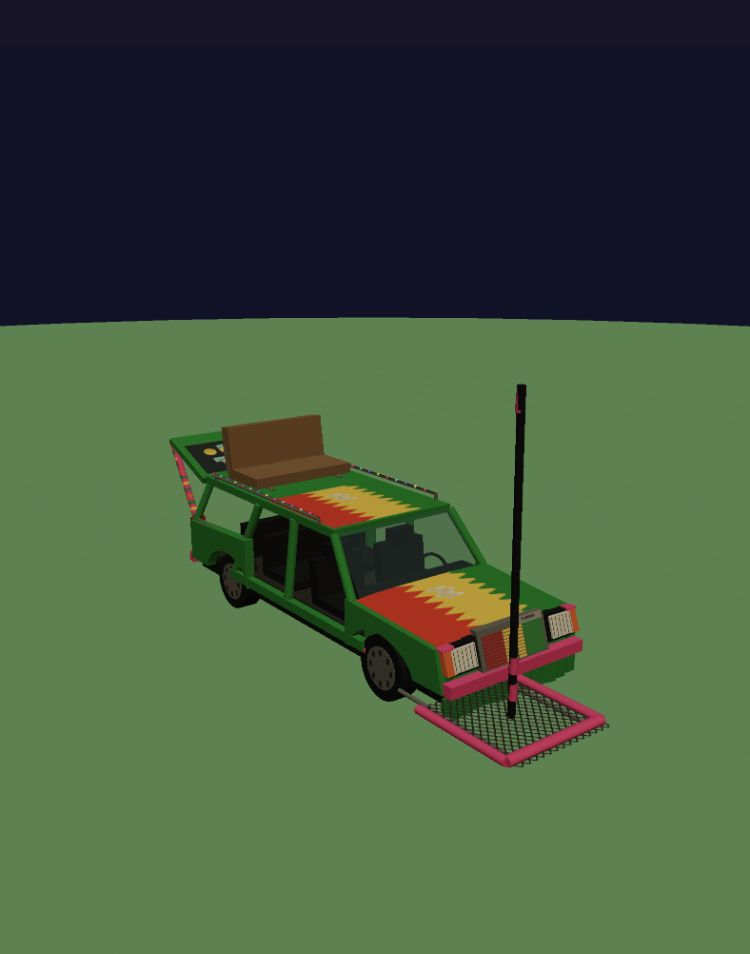
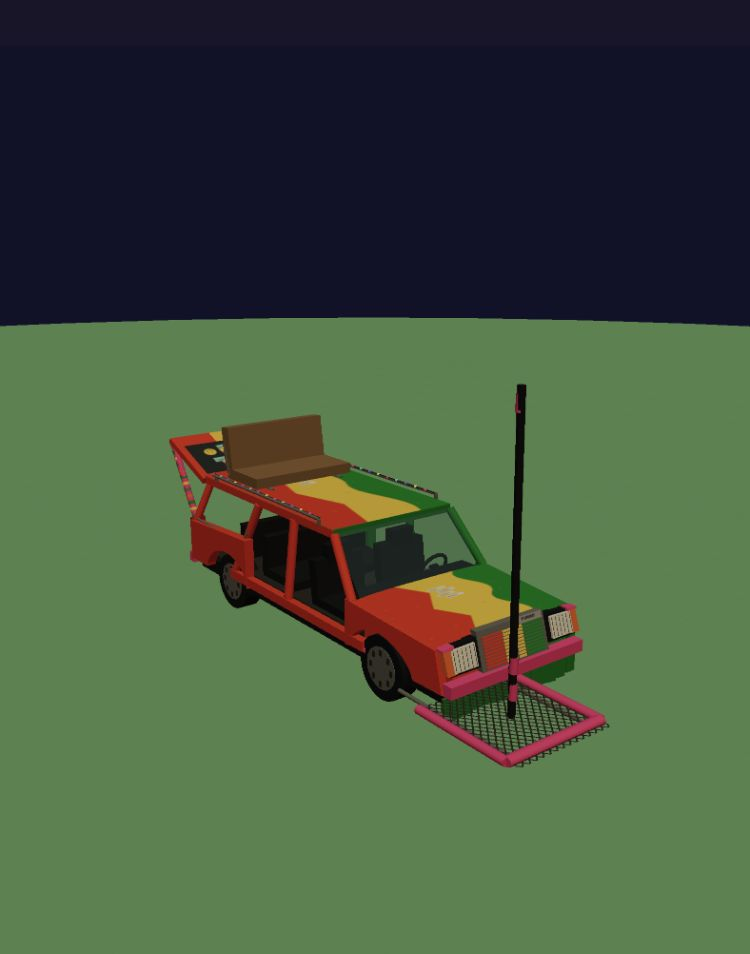
Match Nut Wagon paint to Bo and Courtney colors

diff --git a/src/models/nutWagon.js b/src/models/nutWagon.js
@@ -38,19 +38,22 @@ function createTemplate() {
         m.userData.shared = true;
         return m;
     };
-    const green = material(0x329b32), pink = material(0xef528c);
+    const bodyRed = material(0xe44929);
+    const green = material(0x31962e), pink = material(0xef528c);
     const black = material(0x25282a), metal = material(0x999c91, {metalness: 0.45});
     const tan = material(0x98784c), trim = material(0x45443b);
     const glass = material(0x56777b, {transparent: true, opacity: 0.33, depthWrite: false, side: THREE.DoubleSide});
     const yellow = material(0xf5c52a), orange = material(0xec772a), red = material(0xb93629);
     const lens = material(0xe0dbc0, {roughness: 0.35});
     const paintMap = texture((c, w, h) => {
+        // Viewed from above: -X is Courtney/right, +X is Bo/driver.
+        // Courtney's boundary is angular; Bo's is a smooth wave.
         c.fillStyle = '#e44929'; c.fillRect(0, 0, w, h);
         c.fillStyle = '#efca26'; c.beginPath(); c.moveTo(w * .29, 0);
-        for (let y = 0; y <= h; y += 32) c.lineTo(w * (.30 + (y % 64 ? .10 : -.02)), y);
+        for (let y = 0; y <= h; y += 128) c.lineTo(w * (.30 + (y % 256 ? .10 : -.02)), y);
         c.lineTo(w, h); c.lineTo(w, 0); c.fill();
         c.fillStyle = '#31962e'; c.beginPath(); c.moveTo(w, 0); c.lineTo(w * .73, 0);
-        for (let y = 0; y < h; y += 64) c.bezierCurveTo(w * .58, y + 20, w * .88, y + 42, w * .73, y + 64);
+        for (let y = 0; y < h; y += 256) c.bezierCurveTo(w * .58, y + 80, w * .88, y + 168, w * .73, y + 256);
         c.lineTo(w, h); c.fill();
         for (let i = 0; i < 60; i++) {
             c.fillStyle = i % 3 ? '#807c5555' : '#ecdf9c55';
@@ -104,18 +107,21 @@ function createTemplate() {
     box(root, trim, 0, .63, -.64, 1.78, .09, 3.28);
     // A crowned bonnet falls toward a raked nose instead of a rectangular slab.
     const nose = new THREE.Group(); root.add(nose);
-    box(nose, green, 0, .91, 1.72, 1.70, .58, 1.33, true);
+    for (const [x, mat] of [[-.57, bodyRed], [0, yellow], [.57, green]])
+        box(nose, mat, x, .91, 1.72, .57, .58, 1.33);
     const hood = new THREE.Mesh(new THREE.PlaneGeometry(1.94, 1.34, 8, 4), painted);
     hood.rotation.x = -Math.PI / 2; hood.position.set(0, 1.207, 1.72); nose.add(hood);
     box(root, green, 0, 1.88, -.84, 1.75, .12, 2.78, true);
-    plane(root, painted, 1.68, 1.30, 0, 1.945, -.14, -Math.PI / 2);
+    plane(root, painted, 1.75, 2.78, 0, 1.945, -.84, -Math.PI / 2);
+    box(root, bodyRed, -.877, 1.88, -.84, .012, .12, 2.78);
     for (const x of [-.98, .98]) {
+        const sidePaint = x < 0 ? bodyRed : green;
         const outline = new THREE.Shape();
         outline.moveTo(.93, .53); outline.lineTo(.93, 1.20);
         outline.lineTo(2.39, 1.20); outline.lineTo(2.39, .53);
         outline.absarc(1.49, .437, .50, Math.asin(.093 / .50), Math.PI - Math.asin(.093 / .50), false);
         outline.lineTo(.93, .53);
-        const fender = new THREE.Mesh(new THREE.ExtrudeGeometry(outline, {depth: .09, bevelEnabled: false, curveSegments: 12}), green);
+        const fender = new THREE.Mesh(new THREE.ExtrudeGeometry(outline, {depth: .09, bevelEnabled: false, curveSegments: 12}), sidePaint);
         fender.rotation.y = -Math.PI / 2; fender.position.x = x + .045;
         fender.castShadow = true; nose.add(fender);
         const rearOutline = new THREE.Shape();
@@ -123,18 +129,18 @@ function createTemplate() {
         rearOutline.lineTo(-1.03, 1.28); rearOutline.lineTo(-1.03, .53);
         rearOutline.absarc(-1.49, .437, .50, Math.asin(.093 / .50), Math.PI - Math.asin(.093 / .50), false);
         rearOutline.lineTo(-2.39, .53);
-        const quarter = new THREE.Mesh(new THREE.ExtrudeGeometry(rearOutline, {depth: .13, bevelEnabled: false, curveSegments: 12}), green);
+        const quarter = new THREE.Mesh(new THREE.ExtrudeGeometry(rearOutline, {depth: .13, bevelEnabled: false, curveSegments: 12}), sidePaint);
         quarter.rotation.y = -Math.PI / 2; quarter.position.x = x + .065;
         quarter.castShadow = true; root.add(quarter);
-        box(root, green, x, .62, -.1, .10, .14, 2.65);
+        box(root, sidePaint, x, .62, -.1, .10, .14, 2.65);
         beam(root, pink, [x, .56, 1.24], [x, .56, -1.02], .034);
-        beam(root, green, [x, 1.15, 1.0], [x * .88, 1.88, .55], .055);
-        beam(root, green, [x, .65, -.2], [x * .88, 1.85, -.2], .055);
-        beam(root, green, [x, .68, -1.36], [x * .88, 1.84, -.94], .055);
+        beam(root, sidePaint, [x, 1.15, 1.0], [x * .88, 1.88, .55], .055);
+        beam(root, sidePaint, [x, .65, -.2], [x * .88, 1.85, -.2], .055);
+        beam(root, sidePaint, [x, .68, -1.36], [x * .88, 1.84, -.94], .055);
         beam(root, metal, [x, 1.21, -1.16], [x, 1.21, -2.33], .018);
         beam(root, metal, [x, 1.21, -1.16], [x * .88, 1.82, -.94], .018);
         beam(root, metal, [x * .88, 1.82, -.94], [x * .80, 1.82, -2.17], .018);
-        beam(root, green, [x, 1.12, -2.36], [x * .80, 1.87, -2.20], .052);
+        beam(root, sidePaint, [x, 1.12, -2.36], [x * .80, 1.87, -2.20], .052);
         beam(root, metal, [x * .9, 2.015, .3], [x * .9, 2.015, -1.98], .023);
         for (const z of [.3, -1.9]) beam(root, metal, [x * .9, 1.94, z], [x * .9, 2.015, z], .025);
         for (const z of [1.55, -1.55]) {
@@ -176,7 +182,7 @@ function createTemplate() {
     for (const x of [-.72, .72]) beam(root, metal, [x, 2.02, -1.84], [x, 2.51, -1.95], .027);
     box(nose, metal, 0, .98, 2.41, 1.0, .57, .08);
     for (let i = 0; i < 10; i++) {
-        for (let j = 0; j < 3; j++) box(nose, [red, yellow, green][j], (j - 1) * .30, .745 + i * .047, 2.461, .29, .024, .015);
+        for (let j = 0; j < 3; j++) box(nose, [bodyRed, yellow, green][j], (j - 1) * .30, .745 + i * .047, 2.461, .29, .024, .015);
     }
     beam(nose, metal, [0, .72, 2.48], [0, 1.25, 2.48], .013);
     for (const x of [-.73, .73]) {
@@ -209,7 +215,8 @@ function createTemplate() {
         beam(root, trim, [-.63 + i * .16, 2.15, -1.82], [-.63 + i * .16, 2.66, -1.89], .006);
     }
     const hatch = new THREE.Group(); hatch.name = 'hatch'; hatch.position.set(0, 1.87, -2.21); root.add(hatch);
-    box(hatch, green, 0, -.61, 0, 1.85, 1.24, .075);
+    for (const [x, mat] of [[-.617, bodyRed], [0, yellow], [.617, green]])
+        box(hatch, mat, x, -.61, 0, .617, 1.24, .075);
     plane(hatch, stickers, 1.65, .85, 0, -.51, .043);
     const outside = plane(hatch, stickers, 1.65, .85, 0, -.51, -.043); outside.rotation.y = Math.PI;
     const supports = new THREE.Group(); supports.name = 'hatch_supports'; root.add(supports);

diff --git a/verification/nut-wagon/check.html b/verification/nut-wagon/check.html
@@ -30,7 +30,7 @@ try {
  assert(ga.length === gb.length && ga.every((g, i) => g === gb[i]), 'All mesh buffers shared between instances');
  const bounds = new THREE.Box3().setFromObject(a), size = bounds.getSize(new THREE.Vector3());
  assert(bounds.min.y >= -.001 && size.x > 1.8 && size.x < 2.3 && size.z > 5.5 && size.z < 6.7 && size.y > 3 && size.y < 3.3, 'Grounded vehicle with expected width, platform reach and pole height');
- assert(ga.length <= 52 && triangles < 16000 && shadows <= 4, 'Model geometry and shadow budgets');
+ assert(ga.length <= 56 && triangles < 16000 && shadows <= 4, `Model geometry and shadow budgets (${ga.length} meshes, ${triangles} triangles, ${shadows} casters)`);
  assert(Math.abs(a.userData.wheels[0].position.z - a.userData.wheels[1].position.z) === NUT_WAGON_DIMENSIONS.wheelbase, 'Mercedes 2.795 metre wheelbase');
  const origin = b.userData.wheels[0].rotation.x;
  a.userData.wheels[0].rotation.x += 1;

diff --git a/verification/nut-wagon/README.md b/verification/nut-wagon/README.md
@@ -29,6 +29,8 @@ The three additional references supplied later in this conversation supersede th
 
 The additional near-side profile (`codex-clipboard-bf3d5277-3e61-4170-b893-9aad9cd20887.png`) guides the silhouette, hood slope and wheel openings. The donor appears to be a Mercedes S123 estate; the exact engine/year is unconfirmed. [Mercedes' 300 TD archive specification](https://mercedes-benz-publicarchive.com/marsClassic/de/instance/ko/300-TD--S-123-D-30-1978---1986.xhtml?oid=5380) gives a 4.725 m length, 1.786 m width, 1.470 m roof-rail height and 2.795 m wheelbase, with 1.488/1.453 m front/rear track. These guide the shell calibration; the wheelbase and track are set directly. Altered bumpers, accessories and body contours remain photo approximations, not surveyed dimensions. Proportions are baked into shared buffers, with round tyres and corresponding model-local rider mounts.
 
+Bo clarified the paint intent: his driver side is green with a wavy boundary, Courtney’s right side red with a sharp boundary, and mellow yellow between. The full roof, hood, body sides and hatch follow that assignment. Gary requested fewer crests; both boundaries now have two broad cycles per painted panel. The additional colors cost four material batches and one shadow caster.
+
 ## Model contract
 
 [Source](../../src/models/nutWagon.js) exports `buildNutWagon({hatchOpen = true})` and `NUT_WAGON_MOUNTS`. It returns a ground-anchored Group, facing +Z, with passenger side at -X. Callers own position and rotation.
@@ -43,7 +45,7 @@ The hatch-open option controls its initial pose and support visibility. A future
 - `bin/check-importmaps`: passed, 46 source modules, 12 worldgen modules and 31 models across four entry pages. The model cache-buster entry was added to all four pages.
 - `node --check src/models/nutWagon.js` and `git diff --check`: passed.
 - Real-Three checks: independent model/hatch/wheel transforms, open/closed support visibility, independent rider mount data, finite attributes, bounds, shared buffers, unload convention, reload reuse, resource budgets and GPU shader compilation. [Low results](check-low.json), [standard results](check-standard.json).
-- Model: 50 meshes, 9,778 geometry triangles, three shadow casters. Single-frame renderer probe: 51 submissions / 9,780 triangles, including the transparent double-sided windshield pass. These are model costs, not whole-game FPS measurements.
+- Model: 54 meshes, 9,838 geometry triangles, four shadow casters. Single-frame renderer probe: 55 submissions / 9,840 triangles, including the transparent double-sided windshield pass. These are model costs, not whole-game FPS measurements.
 - Bounds with the hatch open: 2.025 m wide, 3.088 m tall including the pole, 6.317 m long including the platform and raised hatch.
 - Full game: Low title screen and world startup verified through the real start button, with no captured console errors or warnings. The model is not yet spawned by that path.
 - Sandbox: Noon, Midnight, rear cargo opening, closed hatch and repeated entity selection inspected. Browser sound was muted at Gary's request.

diff --git a/CHANGELOG.md b/CHANGELOG.md
@@ -2,6 +2,11 @@
 
 All notable changes to Zerble at the Festival. Newest at top. Following [Keep a Changelog](https://keepachangelog.com); the project isn't versioned yet, so entries are grouped by date.
 
+## 2026-10-13
+
+### Changed
+- **The Nut Wagon paint follows Bo’s explanation.** Bo’s driver side is green, Courtney’s right side is red, and yellow separates them. The hood and full roof carry a sharp red boundary and a smooth green wave; the fenders, pillars, sills, engine shell and hatch now follow the same side assignment. Pink accessories remain pink. The boundaries use fewer, broader waves and spikes.
+
 ## 2026-10-12
 
 ### Added
